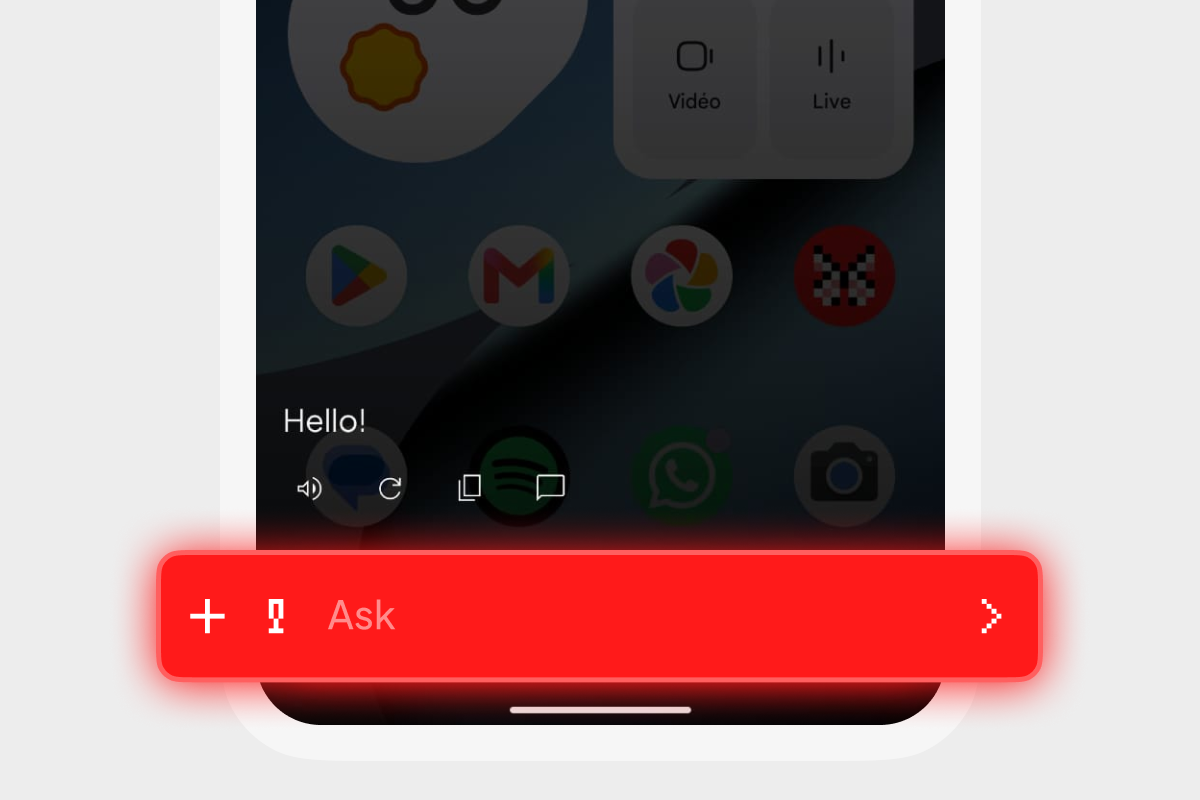
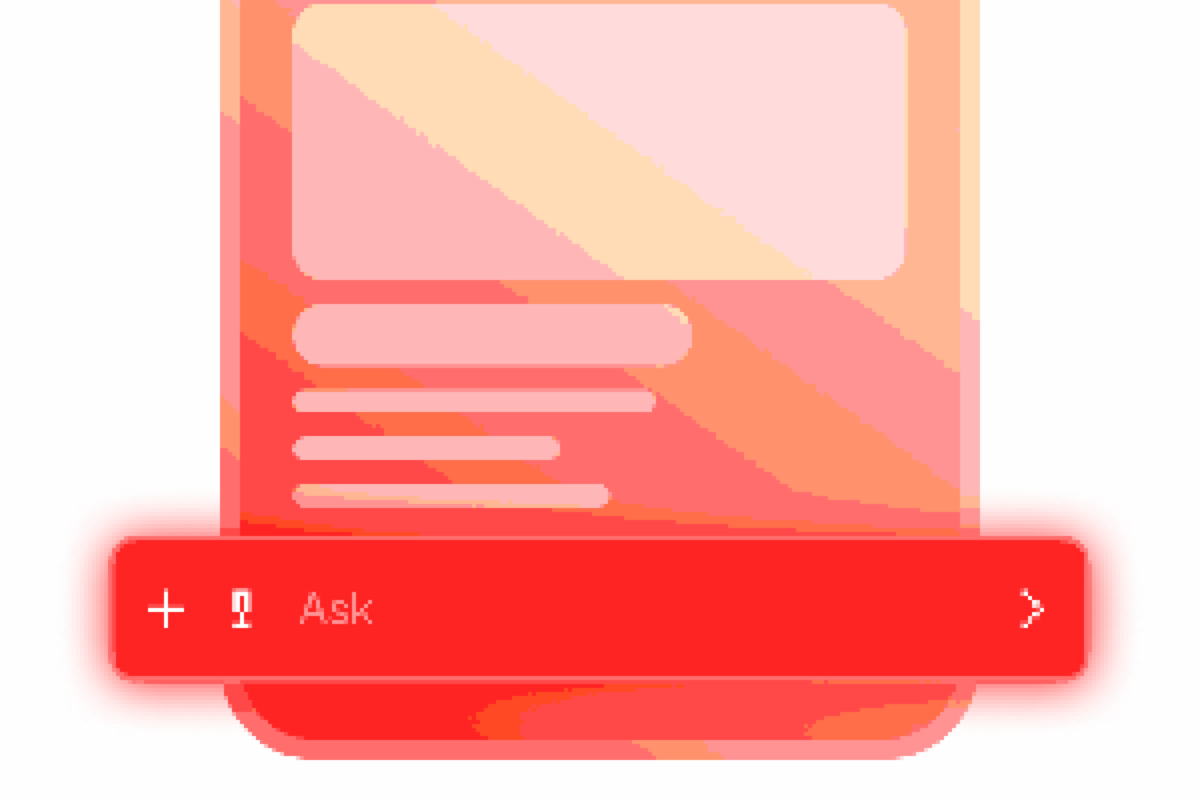
feat: update ImageCard component with style props and refresh asset images and header dimensions

diff --git a/src/components/ui/ImageCard.tsx b/src/components/ui/ImageCard.tsx
@@ -1,21 +1,19 @@
 import { Asset } from 'expo-asset';
-import { Image, ImageSourcePropType, StyleSheet, View } from 'react-native';
-import { Radius, ThemeColors } from '../../../constants/theme';
-import { useThemedStyles } from '../../hooks/useTheme';
+import { Image, ImageSourcePropType, StyleProp, StyleSheet, View, ViewStyle } from 'react-native';
+import { Radius } from '../../../constants/theme';
 
 interface ImageCardProps {
   source: ImageSourcePropType;
   width?: number | `${number}%`;
   height?: number;
   alt?: string;
+  style?: StyleProp<ViewStyle>;
 }
 
-const makeStyles = (Colors: ThemeColors) => StyleSheet.create({
+const styles = StyleSheet.create({
   card: {
     overflow: 'hidden',
     borderRadius: Radius.xxl,
-    borderWidth: 2,
-    borderColor: Colors.border,
   },
   image: {
     width: '100%',
@@ -34,8 +32,8 @@ export default function ImageCard({
   width = 200,
   height,
   alt,
+  style,
 }: ImageCardProps) {
-  const styles = useThemedStyles(makeStyles);
   //no explicit height: derive it from the source so the image isn't cropped
   const resolved = height === undefined ? resolveSize(source) : undefined;
   const sizeStyle = height !== undefined
@@ -43,7 +41,7 @@ export default function ImageCard({
     : { width, aspectRatio: resolved?.width && resolved?.height ? resolved.width / resolved.height : 1 };
 
   return (
-    <View style={[styles.card, sizeStyle]}>
+    <View style={[styles.card, sizeStyle, style]}>
       <Image
         source={source}
         style={styles.image}

diff --git a/src/components/features/ChatView.tsx b/src/components/features/ChatView.tsx
@@ -726,8 +726,8 @@ const makeStyles = (Colors: ThemeColors) => StyleSheet.create({
     paddingBottom: 32,
   },
   headerButterfly: {
-    width: 100,
-    height: 90,
+    width: 140,
+    height: 126,
     marginBottom: 22,
   },
   headerTitle: {
